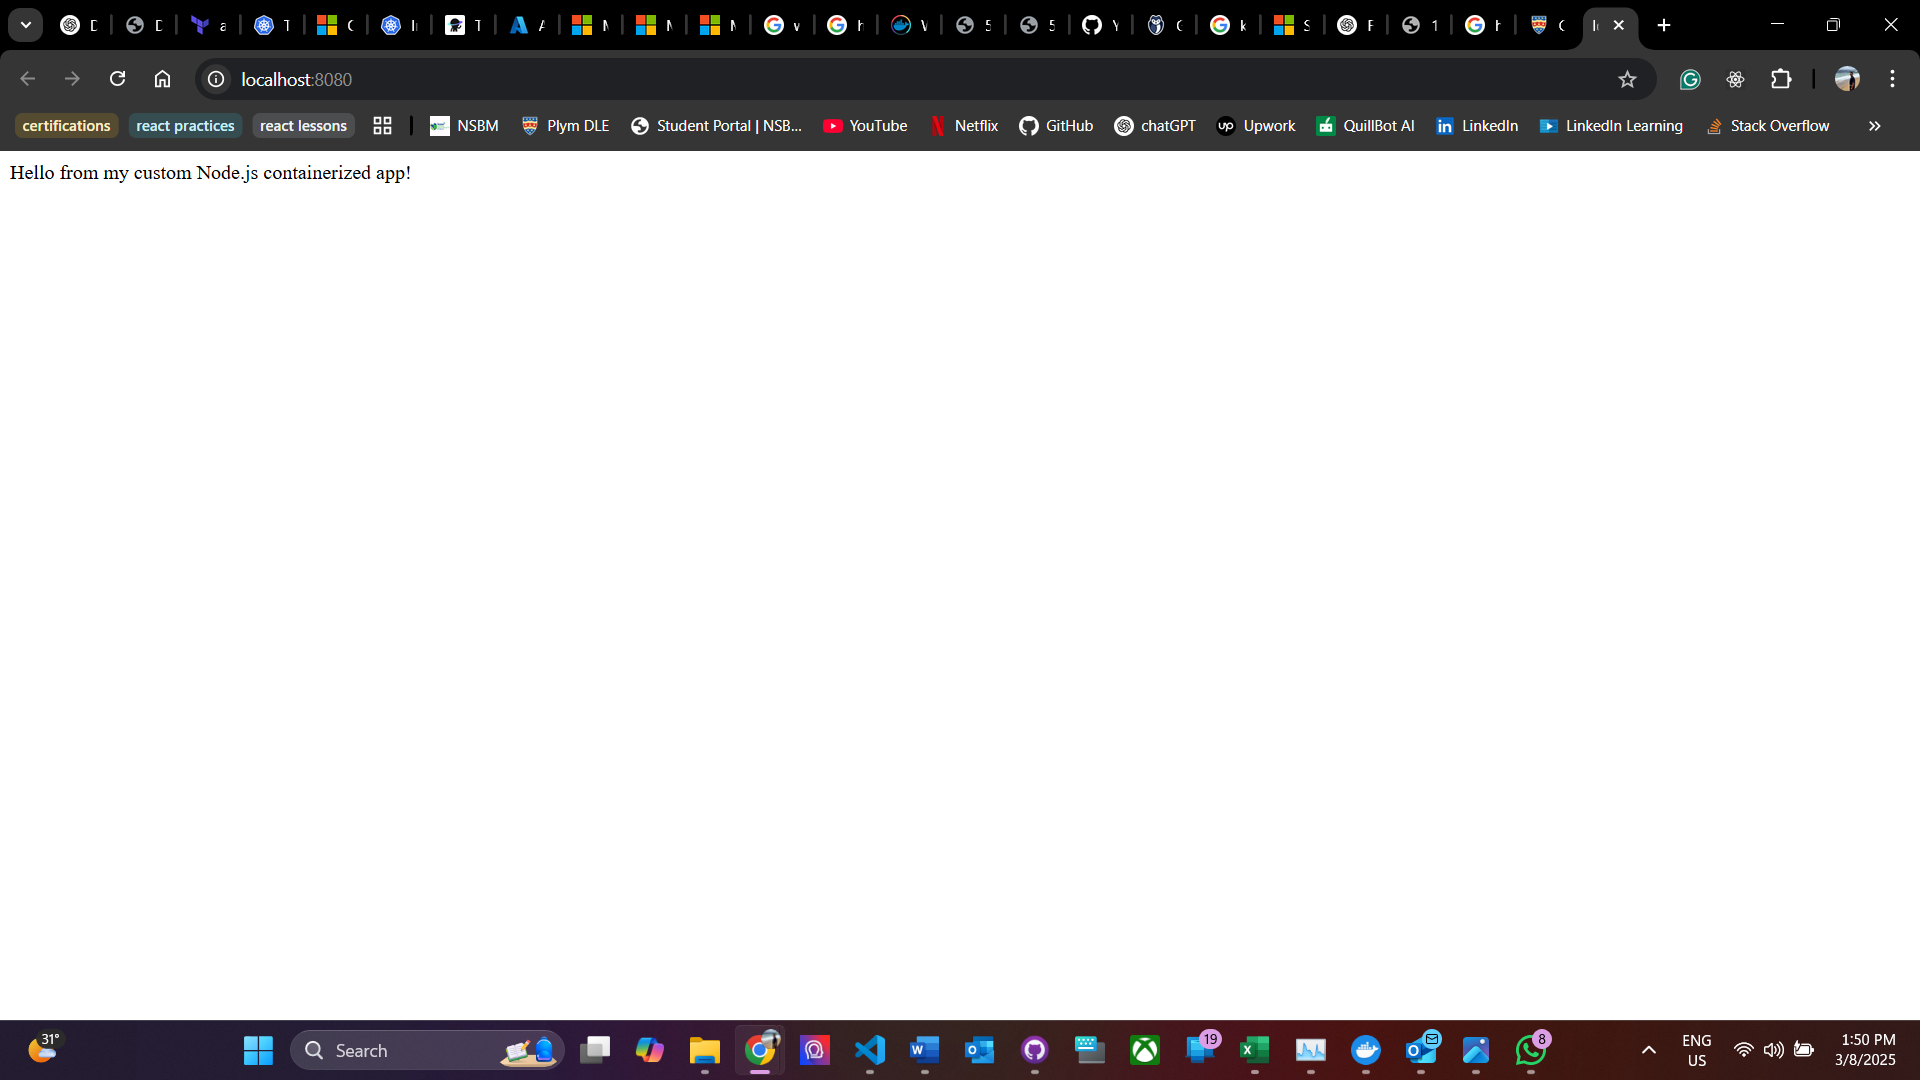
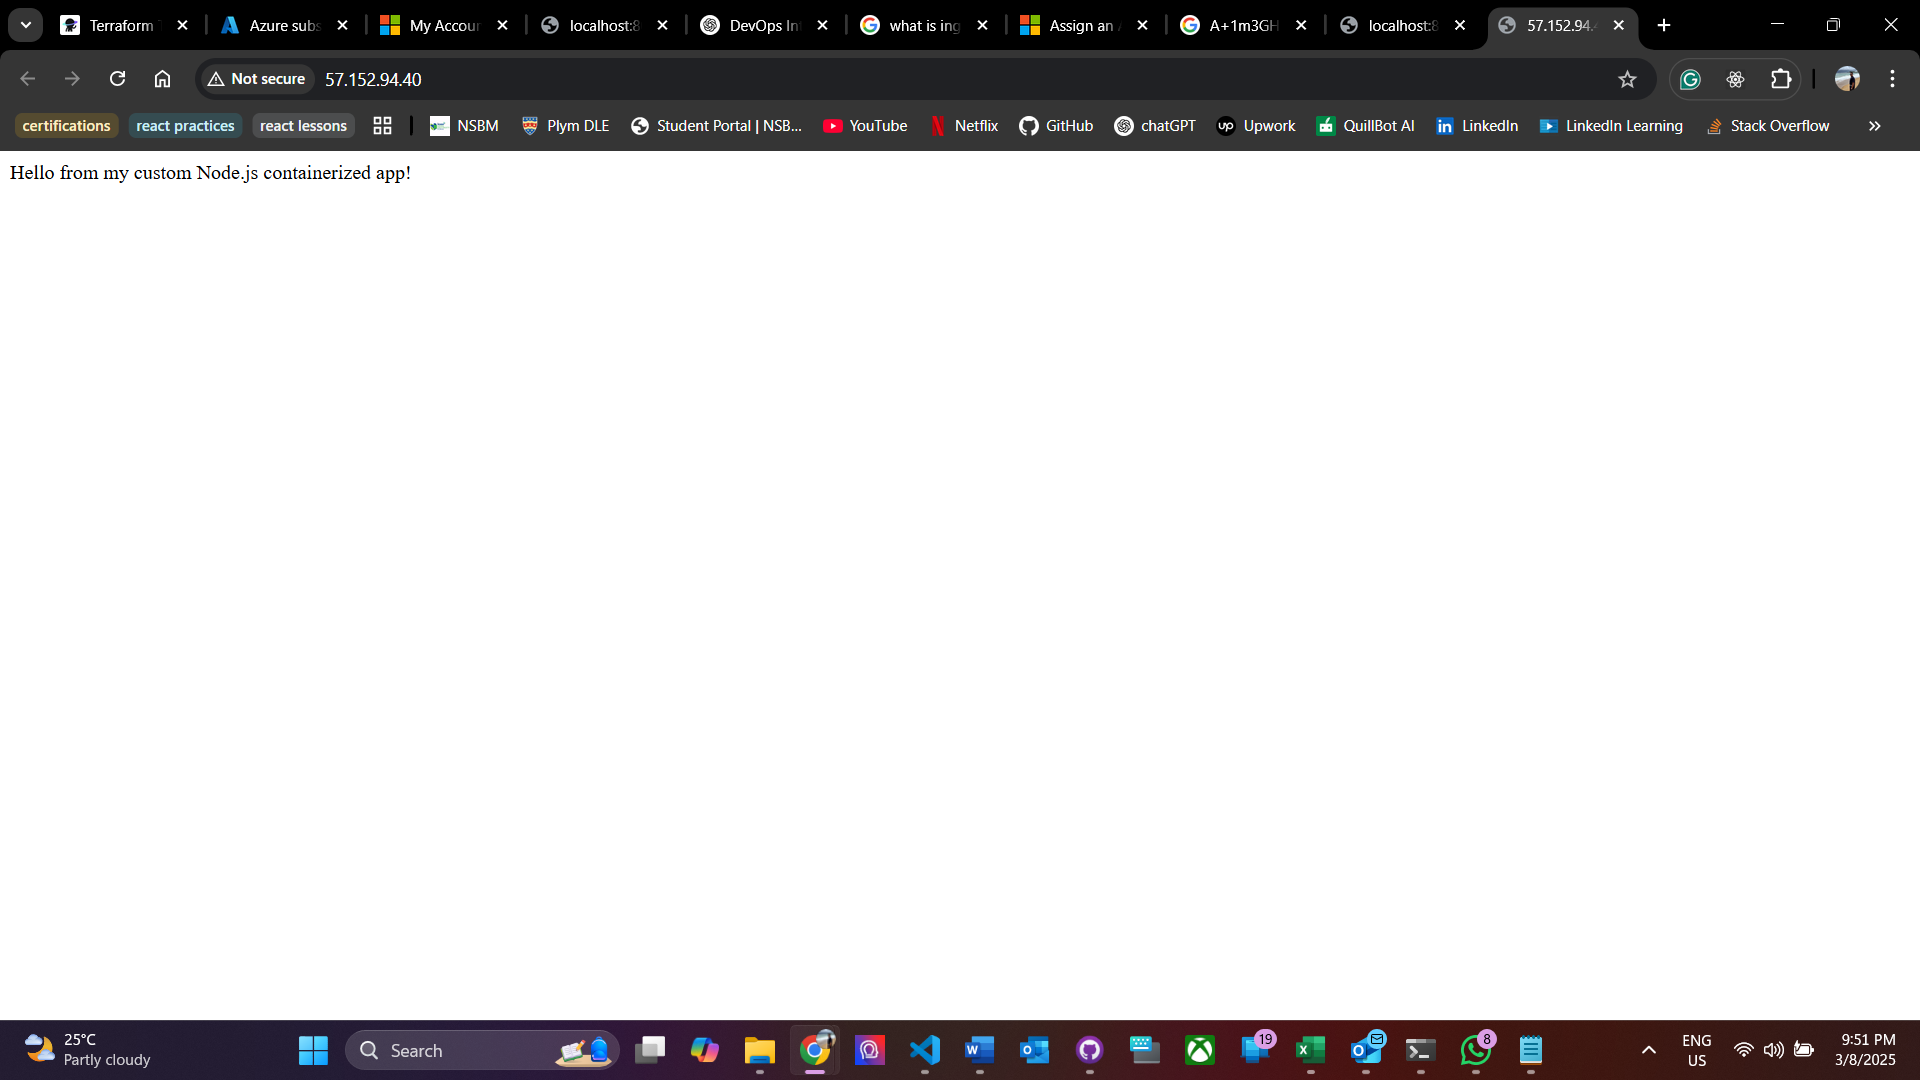
readme file updated

diff --git a/README.md b/README.md
@@ -1,10 +1,8 @@
-# AKS-IaC-and-Deployment-Assignment
-
 # AKS Infrastructure as Code (IaC) and Deployment Assignment
 
 ## Overview
 
-This project demonstrates setting up an **Azure Kubernetes Service (AKS) cluster** using **Terraform** and deploying a **custom containerized Node.js application** to it. The application is exposed using a Kubernetes LoadBalancer service, allowing external access.
+This project demonstrates setting up an **Azure Kubernetes Service (AKS) cluster** using **Terraform** and deploying a **custom containerized Node.js application** to it. The application is exposed using a Kubernetes LoadBalancer service, allowing external access. Additionally, I've also added a state locking mechanism to ensure proper coordination when using the remote state file. This ensures that only one user or process can modify the state at a time, preventing potential conflicts and improving the reliability of the infrastructure setup.
 
 ---
 
@@ -12,30 +10,30 @@ This project demonstrates setting up an **Azure Kubernetes Service (AKS) cluster
 
 Before running the project, ensure you have the following installed:
 
-- [Azure CLI](https://learn.microsoft.com/en-us/cli/azure/install-azure-cli)
-- [Terraform](https://developer.hashicorp.com/terraform/tutorials/aws-get-started/install-cli)
-- [Docker](https://docs.docker.com/get-docker/)
-- [kubectl](https://kubernetes.io/docs/tasks/tools/install-kubectl/)
-- [Git](https://git-scm.com/book/en/v2/Getting-Started-Installing-Git)
+- Azure CLI
+- Terraform
+- Docker
+- kubectl
+- Git
 - An **Azure account** with access to create an AKS cluster.
 
 ---
 
 ## Step 1: Setting Up the AKS Cluster Using Terraform
 
-### 1⃣ Initialize Terraform
+### Initialize Terraform
 
 ```sh
 terraform init
 ```
 
-### 2⃣ Plan Infrastructure
+### Plan Infrastructure
 
 ```sh
 terraform plan
 ```
 
-### 3⃣ Apply Infrastructure Changes
+### Apply Infrastructure Changes
 
 ```sh
 terraform apply -auto-approve
@@ -47,7 +45,7 @@ After successful execution, Terraform will provision:
 - An **AKS Cluster** with **2 nodes**
 - Role-based access control (RBAC) for the cluster
 
-### 4⃣ Connect to the AKS Cluster
+### Connect to the AKS Cluster
 
 ```sh
 az aks get-credentials --resource-group myAKSResourceGroup --name myAKSCluster
@@ -57,19 +55,19 @@ az aks get-credentials --resource-group myAKSResourceGroup --name myAKSCluster
 
 ## Step 2: Build and Push the Custom Node.js Container
 
-### 1⃣ Navigate to the `my-node-app` Directory
+### Navigate to the `my-node-app` Directory
 
 ```sh
 cd my-node-app
 ```
 
-### 2⃣ Build the Docker Image
+### Build the Docker Image
 
 ```sh
 docker build -t my-node-app .
 ```
 
-### 3⃣ Tag the Image
+### Tag the Image
 
 For Docker Hub:
 
@@ -77,13 +75,8 @@ For Docker Hub:
 docker tag my-node-app <your-dockerhub-username>/my-node-app:v1
 ```
 
-For Azure Container Registry:
 
-```sh
-docker tag my-node-app <your-acr-name>.azurecr.io/my-node-app:v1
-```
-
-### 4⃣ Push the Image
+### Push the Image
 
 For Docker Hub:
 
@@ -91,31 +84,25 @@ For Docker Hub:
 docker push <your-dockerhub-username>/my-node-app:v1
 ```
 
-For Azure:
-
-```sh
-docker push <your-acr-name>.azurecr.io/my-node-app:v1
-```
-
 ---
 
 ## Step 3: Deploy the Application to AKS
 
-### 1⃣ Apply Kubernetes Deployment and Service
+### Apply Kubernetes Deployment and Service
 
 ```sh
 kubectl apply -f k8s-manifests/deployment.yaml
 kubectl apply -f k8s-manifests/service.yaml
 ```
 
-### 2⃣ Verify the Deployment
+### Verify the Deployment
 
 ```sh
 kubectl get pods
 kubectl get services
 ```
 
-### 3⃣ Retrieve External IP
+### Retrieve External IP
 
 ```sh
 kubectl get services
@@ -127,26 +114,19 @@ Look for the **EXTERNAL-IP** under the `my-node-app-service` entry.
 
 ## Step 4: Test the Application
 
-### 1⃣ Test with cURL
+### Test with cURL
 
 ```sh
 curl http://<EXTERNAL-IP>
 ```
 
-### 2⃣ Open in a Browser
+### Open in a Browser
 
 Visit:
 
 ```
 http://<EXTERNAL-IP>
 ```
-
-Or Do this:
-
-```
-curl http://localhost:8080
-```
-
 
 You should see:
 
@@ -166,32 +146,21 @@ terraform destroy -auto-approve
 
 ---
 
-## Troubleshooting
+## Troubleshooting - External IP Address Issue
 
-### 1⃣ External IP Shows `<pending>`
+During the development, I encountered an issue where the external IP address was intermittently not functioning as expected. At times, I could only access the application through a local server port using port forwarding, which was not ideal.
 
-- Wait a few minutes for Azure to provision the LoadBalancer.
-- Check service details:
+However, after implementing a **state-locking mechanism** for the Terraform configuration, the issue with the external IP address was resolved. The state-locking mechanism ensured that only one process could modify the state at a time, which helped stabilize the deployment process and allowed the external IP to work reliably.
 
-```sh
-kubectl describe service my-node-app-service
-```
+### Fix:
+- **Before state-locking**: The external IP address was not consistently accessible, and the application could only be accessed through a local server using port forwarding.
+- **After state-locking**: The external IP became functional and accessible as intended, preventing potential conflicts with state modifications during deployment.
 
-### 2⃣ Check Logs for Errors
-
-```sh
-kubectl logs -l app=my-node-app
-```
-
-### 3⃣ Restart a Pod
-
-```sh
-kubectl delete pod <pod-name>
-```
 
 
 ## Deployment Success
-![Terraform Apply Success](screenshots/deployment-success.png)
+![Terraform Apply Success](screenshots/deployment-success1.png)
+![Terraform Apply Success](screenshots/deployment-success2.png)
 
 ## Kubernetes Service with External IP
 ![Service Status](screenshots/service-status.png)
@@ -202,7 +171,7 @@ kubectl delete pod <pod-name>
 
 
 
-## 📌 Conclusion
+## Conclusion
 
 This project successfully demonstrates how to: Provision an **AKS Cluster** using Terraform.  Build & push a **custom Node.js Docker container**. Deploy and expose the app on **Azure Kubernetes Service**.  Test and validate deployment via **cURL & browser**.
 
